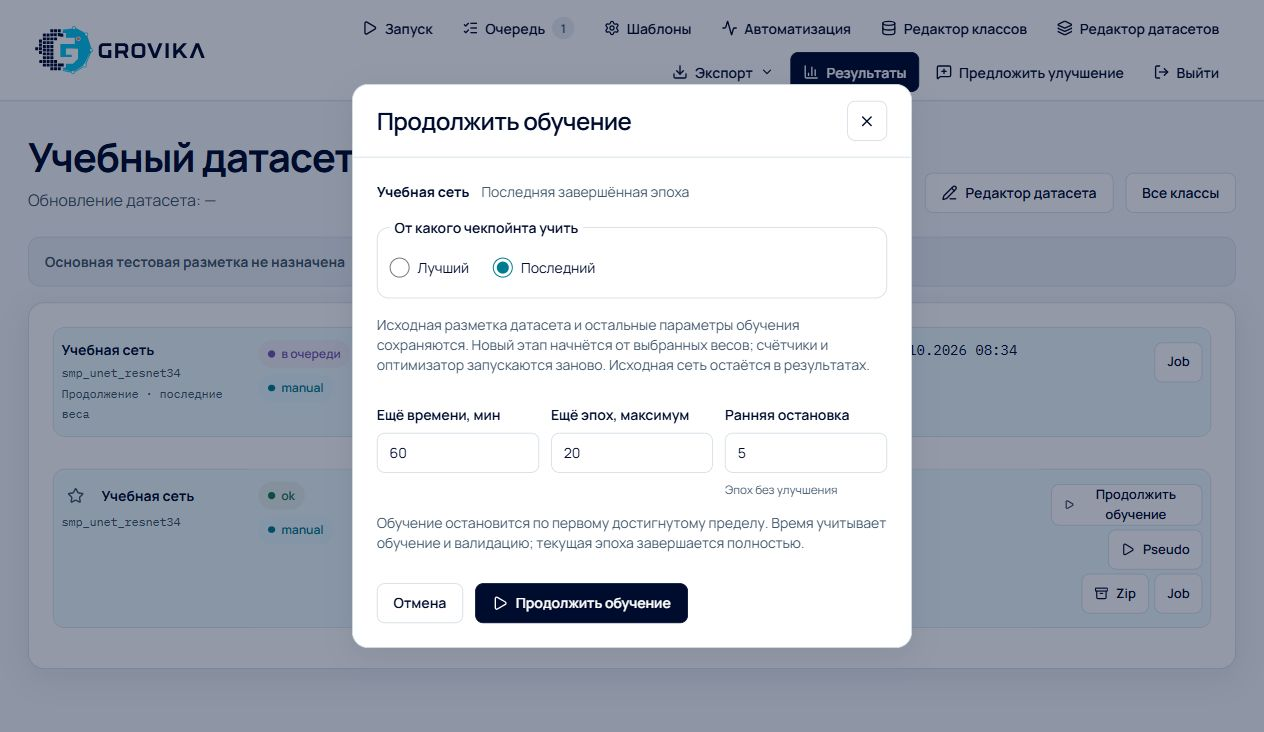
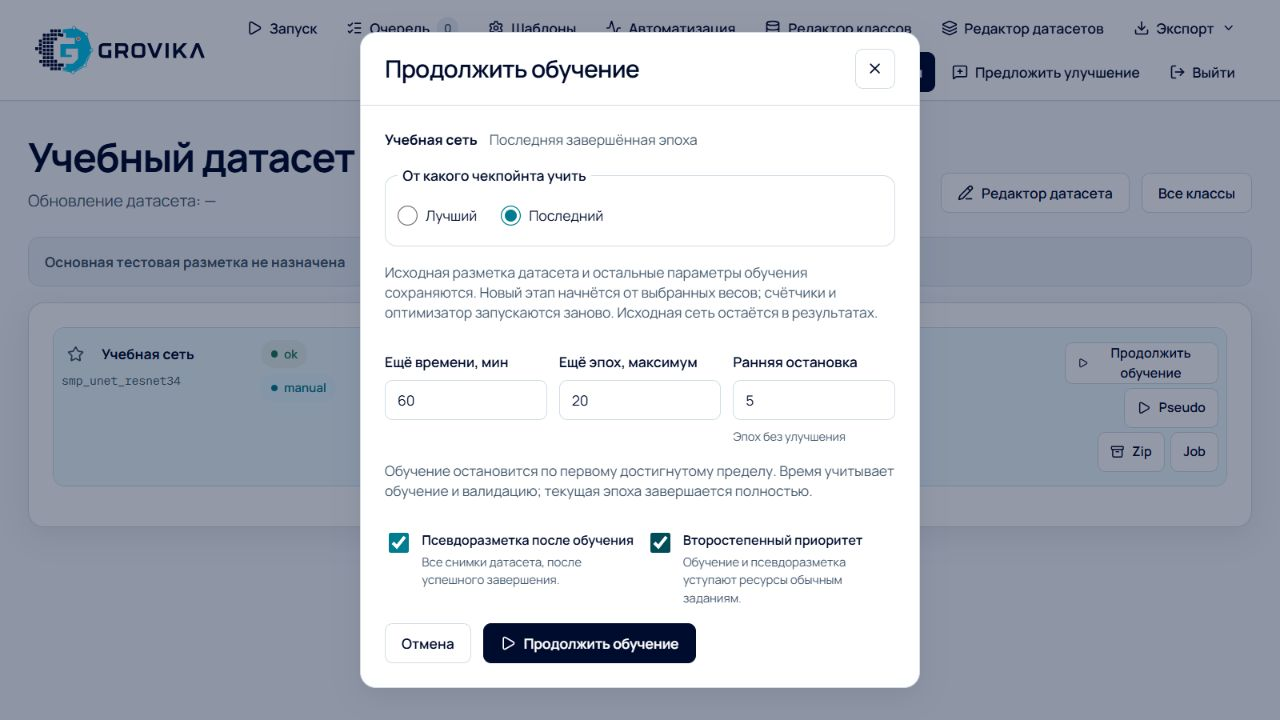
Псевдоразметка и второстепенный приоритет в продолжении обучения

diff --git a/frontend/src/News.tsx b/frontend/src/News.tsx
@@ -20,7 +20,7 @@ export const newsArticles: readonly (NewsArticle | NewsUpdates)[] = [{
   summary: "Дайте сети ещё время и эпохи прямо из результатов датасета. Выберите лучший или последний чекпойнт, задайте раннюю остановку: новый этап сохранит исходные параметры и разметку, а прежняя сеть останется для сравнения.",
   image: {
     src: "/news/training-continuation-dialog.jpg",
-    alt: "Диалог продолжения обучения Гровики на учебном датасете: выбран последний чекпойнт, ещё 60 минут, максимум 20 эпох и ранняя остановка после пяти эпох без улучшения.",
+    alt: "Диалог продолжения обучения Гровики на учебном датасете: выбран последний чекпойнт, ещё 60 минут, максимум 20 эпох, ранняя остановка после пяти эпох без улучшения, включены псевдоразметка после обучения и второстепенный приоритет.",
     caption: "Реальный интерфейс на учебном примере. Датасет, сеть и значения показаны для иллюстрации; производственные данные не использовались.",
   },
   sections: [{
@@ -41,6 +41,7 @@ export const newsArticles: readonly (NewsArticle | NewsUpdates)[] = [{
     steps: [
       "В разделе «Результаты» откройте нужный датасет и найдите завершённую сеть. Нажмите «Продолжить обучение» в её строке.",
       "Выберите лучший или последний чекпойнт. Укажите, сколько ещё минут дать сети, максимум дополнительных эпох и раннюю остановку — число эпох без улучшения исходного критерия.",
+      "При необходимости включите «Псевдоразметка после обучения» для всех снимков датасета и «Второстепенный приоритет», чтобы обучение и его псевдоразметка уступали ресурсы обычным заданиям. Начальные значения берутся из исходного запуска; их можно изменить для нового этапа.",
       "Нажмите «Продолжить обучение» в диалоге. Новый этап появится в результатах со статусом «в очереди» и отметкой, от каких весов он продолжает работу.",
     ],
     paragraphs: [
@@ -50,7 +51,7 @@ export const newsArticles: readonly (NewsArticle | NewsUpdates)[] = [{
   }, {
     title: "Сохраняются параметры и исходная разметка",
     paragraphs: [
-      "Новый этап наследует архитектуру, конвейер, каналы снимков, параметры нарезки, аугментаций и обучения. Он использует сохранённый снимок разметки исходного датасета. Последующие правки датасета или шаблона не подменяют эти данные. Меняются выбранная точка старта и три дополнительных лимита.",
+      "Новый этап наследует архитектуру, конвейер, каналы снимков, параметры нарезки, аугментаций и обучения. Он использует сохранённый снимок разметки исходного датасета. Последующие правки датасета или шаблона не подменяют эти данные. В диалоге выбираются точка старта, три дополнительных лимита, псевдоразметка после обучения и второстепенный приоритет.",
       "Это отдельный этап от сохранённых весов. Оптимизатор и расписание скорости обучения инициализируются заново по исходным параметрам; счётчики эпох, времени и ранней остановки начинают новый отсчёт. Существующие чекпойнты хранят веса и метаданные, поэтому продолжение завершённого запуска отличается от снятия с паузы ещё работающего процесса.",
     ],
   }, {
@@ -61,7 +62,7 @@ export const newsArticles: readonly (NewsArticle | NewsUpdates)[] = [{
       caption: "Реальный интерфейс на учебных данных. Значения F1 и эпох иллюстрируют связь этапов; это не результат измерения качества производственной сети.",
     },
     paragraphs: [
-      "Продолжение проходит через обычную очередь обучения. Его можно перемещать, пока оно ожидает запуска, а после старта использовать штатные действия паузы и остановки. Если исходная настройка предусматривала инференс после обучения, она сохранится и для нового этапа.",
+      "Продолжение проходит через обычную очередь обучения. Его можно перемещать, пока оно ожидает запуска, а после старта использовать штатные действия паузы и остановки. При включённой псевдоразметке после успешного обучения создаётся разметка всех снимков датасета. Второстепенный приоритет применяется и к новому обучению, и к его последующей псевдоразметке — так же, как в мастере запуска.",
       "Исходная сеть и её дообученные варианты собираются в одну группу связанных этапов. Каждый этап показывает свои оценки, эпоху лучших весов и собственные псевдоразметки. У продолжения указано, от какого этапа и каких весов оно запущено. Номера эпох относятся к своему этапу: например, эпоха 4 нового этапа идёт после выбранных весов предыдущего запуска.",
       "Прежние псевдоразметки и чекпойнты сохраняются вместе с исходной сетью. Подпись у псевдоразметки показывает эпоху её весов; она есть и в просмотрщике. Так можно открыть результаты прежнего и нового этапов на тех же снимках и оценить разницу. Новый запуск хранит лучшие и последние веса отдельно от предыдущего; продолжение не заменяет его файлы.",
       "Отметка основной сети сохраняется у прежнего результата. Назначение нового результата основным остаётся вашим явным выбором. При необходимости завершённый новый этап тоже можно продолжить.",

diff --git a/frontend/src/TrainingContinuationForm.tsx b/frontend/src/TrainingContinuationForm.tsx
@@ -23,6 +23,8 @@ export function TrainingContinuationForm({ result, options, run, closeModal, rel
       additional_time_sec: Math.round(Number(values.get("minutes")) * 60),
       early_stopping_patience: Number(values.get("patience")),
       checkpoint,
+      run_inference_after_training: values.get("run_inference_after_training") === "on",
+      secondary_priority: values.get("secondary_priority") === "on",
       request_id: requestId,
     };
     sending.current = true;
@@ -63,6 +65,14 @@ export function TrainingContinuationForm({ result, options, run, closeModal, rel
       </label>
     </div>
     <p className="muted">Обучение остановится по первому достигнутому пределу. Время учитывает обучение и валидацию; текущая эпоха завершается полностью.</p>
+    <div className="continuation-options" role="group" aria-label="Очередь и результат">
+      <label className="training-launch-check"><input type="checkbox" name="run_inference_after_training" defaultChecked={options.run_inference_after_training} disabled={busy} />
+        <span>Псевдоразметка после обучения<small>Все снимки датасета, после успешного завершения.</small></span>
+      </label>
+      <label className="training-launch-check"><input type="checkbox" name="secondary_priority" defaultChecked={options.secondary_priority} disabled={busy} />
+        <span>Второстепенный приоритет<small>Обучение и псевдоразметка уступают ресурсы обычным заданиям.</small></span>
+      </label>
+    </div>
     <div className="button-row">
       <button className="secondary" type="button" onClick={closeModal} disabled={busy}>Отмена</button>
       <button className="primary" type="submit" disabled={busy}>{busy ? <LoaderCircle className="spin" size={16} /> : <Play size={16} />}{busy ? "Постановка в очередь…" : "Продолжить обучение"}</button>

diff --git a/frontend/src/api/schema.ts b/frontend/src/api/schema.ts
@@ -4850,7 +4850,7 @@ export interface components {
         };
         /**
          * TrainingContinuationCreate
-         * @description Чекпойнт и лимиты нового этапа обучения.
+         * @description Чекпойнт, лимиты и параметры очереди нового этапа обучения.
          */
         TrainingContinuationCreate: {
             /** Additional Epochs */
@@ -4865,6 +4865,10 @@ export interface components {
              * @enum {string}
              */
             checkpoint: "best" | "last";
+            /** Run Inference After Training */
+            run_inference_after_training?: boolean | null;
+            /** Secondary Priority */
+            secondary_priority?: boolean | null;
             /**
              * Request Id
              * Format: uuid
@@ -4884,6 +4888,16 @@ export interface components {
             early_stopping_patience: number;
             /** Last Checkpoint Available */
             last_checkpoint_available: boolean;
+            /**
+             * Run Inference After Training
+             * @default false
+             */
+            run_inference_after_training: boolean;
+            /**
+             * Secondary Priority
+             * @default false
+             */
+            secondary_priority: boolean;
         };
         /** TrainingJobCreate */
         TrainingJobCreate: {

diff --git a/frontend/src/styles/pages.css b/frontend/src/styles/pages.css
@@ -291,7 +291,12 @@
   gap: 12px;
 }
 
+.continuation-options { display: grid; grid-template-columns: repeat(2, minmax(0, 1fr)); gap: 12px; }
+.continuation-options .training-launch-check { min-height: 44px; }
+.continuation-options input[type="checkbox"] { width: 20px; height: 20px; min-height: 20px; flex-shrink: 0; padding: 0; }
+
 @media (max-width: 480px) {
+  .continuation-options { grid-template-columns: 1fr; gap: 10px; }
   .continuation-fields { grid-template-columns: repeat(2, minmax(0, 1fr)); gap: 10px; }
   .continuation-fields .field:last-child { grid-column: 1 / -1; }
 }

diff --git a/tests/test_training_ui_continuation.py b/tests/test_training_ui_continuation.py
@@ -18,7 +18,10 @@ from mlsystem2.training_ui_api import _training_continuation as continuation, _w
 from mlsystem2.training_ui_api._config import get_config
 from mlsystem2.training_ui_api._database import Base, configure_schema, create_session_factory
 from mlsystem2.training_ui_api._models import JobRow, PseudoMarkupResultRow, StoredFileRow, TrainingResultRow
-from mlsystem2.training_ui_api._queueing import POST_TRAINING_INFERENCE_JOB_IDS_CONFIG_KEY, STOP_AND_SAVE_BEST_CONFIG_KEY
+from mlsystem2.training_ui_api._queueing import (
+    POST_TRAINING_INFERENCE_CONFIG_KEY, POST_TRAINING_INFERENCE_JOB_IDS_CONFIG_KEY,
+    SECONDARY_PRIORITY_CONFIG_KEY, STOP_AND_SAVE_BEST_CONFIG_KEY, is_secondary_job,
+)
 from mlsystem2.training_ui_api.api import create_app
 from mlsystem2.training_ui_api.contracts import TrainingContinuationCreate, TrainingUIAPIError
 
@@ -136,7 +139,8 @@ def test_continue_api_copies_parameters_and_keeps_original(saved_training, check
     options = env.client.get(url)
     assert options.status_code == 200
     assert options.json() == {"additional_epochs": 30, "additional_time_sec": 1800,
-                              "early_stopping_patience": 7, "last_checkpoint_available": True}
+                              "early_stopping_patience": 7, "last_checkpoint_available": True,
+                              "run_inference_after_training": True, "secondary_priority": False}
     request = _request(checkpoint)
     response = env.client.post(url, json=request)
     assert response.status_code == 200, response.text
@@ -171,6 +175,48 @@ def test_last_checkpoint_is_disabled_and_rejected_when_not_saved(saved_training)
     assert env.client.get(url).json()["last_checkpoint_available"] is False
     assert env.client.post(url, json=_request("last")).status_code == 400
     assert env.client.post(url, json=_request("best")).status_code == 200
+
+
+@pytest.mark.parametrize("run_inference", [False, True])
+@pytest.mark.parametrize("secondary", [False, True])
+def test_continuation_can_change_pseudo_markup_and_queue_priority(saved_training, run_inference, secondary):
+    env = saved_training
+    source_config = {**env.flat, POST_TRAINING_INFERENCE_CONFIG_KEY: not run_inference,
+                     SECONDARY_PRIORITY_CONFIG_KEY: not secondary}
+    with env.factory() as session:
+        session.get(JobRow, env.job_id).config = source_config
+        session.commit()
+    url = f"/api/v1/results/training/{env.result_id}/continue"
+    options = env.client.get(url).json()
+    assert options["run_inference_after_training"] is (not run_inference)
+    assert options["secondary_priority"] is (not secondary)
+    request = _request(run_inference_after_training=run_inference, secondary_priority=secondary)
+    response = env.client.post(url, json=request)
+    assert response.status_code == 200, response.text
+    child = response.json()
+    assert child["run_inference_after_training"] is run_inference
+    assert child["secondary_priority"] is secondary
+    with env.factory() as session:
+        row = session.get(JobRow, uuid.UUID(child["id"]))
+        assert row.config[POST_TRAINING_INFERENCE_CONFIG_KEY] is run_inference
+        assert is_secondary_job(row) is secondary
+        assert session.get(JobRow, env.job_id).config == source_config
+    assert env.client.post(url, json=request).json()["id"] == child["id"]
+    for name in ("run_inference_after_training", "secondary_priority"):
+        assert env.client.post(url, json={**request, name: not request[name]}).status_code == 400
+
+
+def test_omitted_continuation_option_inherits_the_original_choice(saved_training):
+    env = saved_training
+    with env.factory() as session:
+        source = session.get(JobRow, env.job_id)
+        source.config = {**source.config, SECONDARY_PRIORITY_CONFIG_KEY: True}
+        session.commit()
+    response = env.client.post(f"/api/v1/results/training/{env.result_id}/continue",
+                               json=_request(run_inference_after_training=False))
+    assert response.status_code == 200, response.text
+    assert response.json()["run_inference_after_training"] is False
+    assert response.json()["secondary_priority"] is True
 
 
 def test_continuation_keeps_pseudo_markup_files_and_their_checkpoint_epoch(saved_training, monkeypatch):

diff --git a/src/mlsystem2/training_ui_api/_training_continuation.py b/src/mlsystem2/training_ui_api/_training_continuation.py
@@ -20,7 +20,9 @@ from mlsystem2.mlflow_adapter.contracts import MLflowAdapterError
 from ._config import TrainingUIAPIConfig
 from ._models import JobRow, TrainingResultRow
 from ._queueing import (
+    POST_TRAINING_INFERENCE_CONFIG_KEY,
     POST_TRAINING_INFERENCE_JOB_IDS_CONFIG_KEY,
+    SECONDARY_PRIORITY_CONFIG_KEY,
     STOP_AND_SAVE_BEST_CONFIG_KEY,
     next_queue_position,
 )
@@ -39,6 +41,10 @@ _LIMIT_KEYS = {
     "additional_epochs": "train.epochs",
     "additional_time_sec": "train.max_training_time_sec",
     "early_stopping_patience": "train.early_stopping_patience",
+}
+_OPTION_KEYS = {
+    "run_inference_after_training": POST_TRAINING_INFERENCE_CONFIG_KEY,
+    "secondary_priority": SECONDARY_PRIORITY_CONFIG_KEY,
 }
 
 
@@ -87,6 +93,8 @@ def continuation_options(
         additional_time_sec=flat.get("train.max_training_time_sec") or 3600,
         early_stopping_patience=flat.get("train.early_stopping_patience") or 10,
         last_checkpoint_available=last_available,
+        run_inference_after_training=bool(flat.get(POST_TRAINING_INFERENCE_CONFIG_KEY, False)),
+        secondary_priority=bool(flat.get(SECONDARY_PRIORITY_CONFIG_KEY, False)),
     )
 
 
@@ -100,9 +108,15 @@ def create_continuation_job(
     session.refresh(source, with_for_update=True)
     if not can_continue_training(result, source):
         raise TrainingUIAPIError("Исходное обучение больше недоступно для продолжения.")
+    # Старые клиенты без этих полей сохраняют прежнее наследование опций.
+    selected_options = {
+        key: bool(source.config.get(key, False)) if getattr(request, name) is None else getattr(request, name)
+        for name, key in _OPTION_KEYS.items()
+    }
     existing = session.scalar(select(JobRow).where(JobRow.dedup_key == dedup_key))
     if existing is not None:
         if (any(existing.config.get(key) != getattr(request, name) for name, key in _LIMIT_KEYS.items())
+            or any(bool(existing.config.get(key, False)) != value for key, value in selected_options.items())
             or existing.config[CONTINUATION_KEY].get("checkpoint") != request.checkpoint):
             raise TrainingUIAPIError("Параметры повторной отправки изменены. Откройте диалог заново.")
         return existing
@@ -111,6 +125,7 @@ def create_continuation_job(
     for transient_key in (POST_TRAINING_INFERENCE_JOB_IDS_CONFIG_KEY, STOP_AND_SAVE_BEST_CONFIG_KEY):
         job_config.pop(transient_key, None)
     job_config.update({key: getattr(request, name) for name, key in _LIMIT_KEYS.items()})
+    job_config.update(selected_options)
     job_config[CONTINUATION_KEY] = {
         "result_id": str(result.id), "job_id": str(source.id),
         "mlflow_run_id": result.mlflow_run_id,

diff --git a/src/mlsystem2/training_ui_api/_contracts/jobs.py b/src/mlsystem2/training_ui_api/_contracts/jobs.py
@@ -26,7 +26,7 @@ class TrainingJobCreate(BaseModel):
 
 
 class TrainingContinuationCreate(BaseModel):
-    """Чекпойнт и лимиты нового этапа обучения."""
+    """Чекпойнт, лимиты и параметры очереди нового этапа обучения."""
 
     model_config = ConfigDict(extra="forbid")
 
@@ -34,6 +34,8 @@ class TrainingContinuationCreate(BaseModel):
     additional_time_sec: int = Field(gt=0, strict=True)
     early_stopping_patience: int = Field(gt=0, strict=True)
     checkpoint: Literal["best", "last"] = "best"
+    run_inference_after_training: bool | None = None
+    secondary_priority: bool | None = None
     request_id: UUID
 
 
@@ -46,6 +48,8 @@ class TrainingContinuationOptions(BaseModel):
     additional_time_sec: int = Field(gt=0)
     early_stopping_patience: int = Field(gt=0)
     last_checkpoint_available: bool
+    run_inference_after_training: bool = False
+    secondary_priority: bool = False
 
 
 class QueueEnabledUpdate(BaseModel):

diff --git a/tests/test_public_contracts.py b/tests/test_public_contracts.py
@@ -61,6 +61,7 @@ def test_completed_training_continuation_contract(monkeypatch) -> None:
 
     assert set(TrainingContinuationCreate.model_fields) == {
         "additional_epochs", "additional_time_sec", "early_stopping_patience", "checkpoint", "request_id",
+        "run_inference_after_training", "secondary_priority",
     }
     assert {"can_continue_training", "continued_from_result_id", "continued_from_checkpoint"} <= TrainingResultInfo.model_fields.keys()
     monkeypatch.setenv("MLSYSTEM2_TRAINING_UI_DATABASE_URL", "sqlite:///:memory:")

diff --git a/docs/modules/training_ui_api_module.md b/docs/modules/training_ui_api_module.md
@@ -225,7 +225,12 @@ Frontend показывает ошибку внутри окна импорта 
   используется полный `config/resolved_train_config.json`; исторический резерв — исходный YAML запуска.
   Все новые задания сохраняют полный валидированный снимок обучения `SystemSettings` без блока `inference` в `run.yml` до старта процесса.
   Оптимизатор/scheduler и счётчики создаются заново; это дополнительный этап от весов, а не восстановление
-  процесса после паузы. Опция инференса после обучения наследуется, ссылки на уже поставленные задания
+  процесса после паузы. Диалог предлагает `run_inference_after_training` и `secondary_priority` с исходными
+  значениями: обе опции можно изменить для нового этапа. Эти поля в `TrainingContinuationCreate` допускают
+  `null`/отсутствие для наследования при запросе старого клиента; `TrainingContinuationOptions` возвращает
+  фактические булевы значения. Изменение опции при повторе одного `request_id` отклоняется, как изменение
+  лимитов или чекпойнта. Используются штатные создание псевдоразметки и приоритет очереди; новые механизмы
+  доставки результата не вводятся. Ссылки на уже поставленные задания
   и запрос прежней остановки очищаются. Исходный result, его звезда и псевдоразметки не меняются.
   `TrainingResultInfo.can_continue_training` определяет наличие кнопки без сетевого обхода артефактов на
   каждой строке; `continued_from_result_id`, `continued_from_epoch` (для best) и `continued_from_checkpoint`
